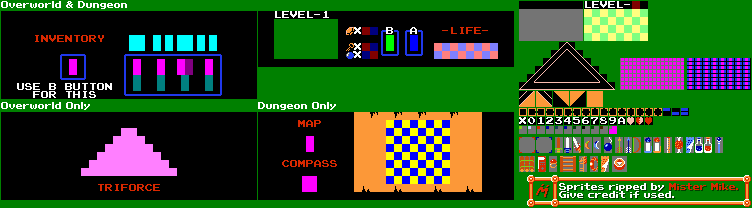
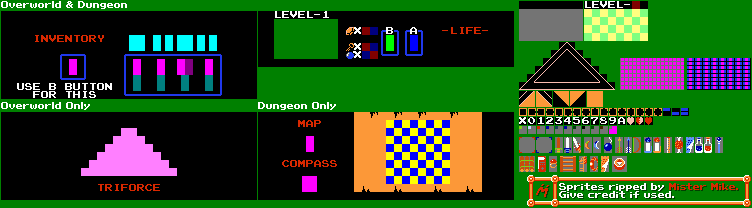
Implements functional healthbar UI

Changed region(s): [[0.5505, 0.2019, 0.6729, 0.2885]]

diff --git a/sprint0Real/UI/UI.cs b/sprint0Real/UI/UI.cs
@@ -2,6 +2,7 @@
 using Microsoft.Xna.Framework.Graphics;
 using sprint0Real;
 using sprint0Real.Interfaces;
+using System.Diagnostics;
 
 
 public class UI : IUI
@@ -12,6 +13,12 @@ public class UI : IUI
     private int Scale = Game1.RENDERSCALE;
     private int UIXCoord;
     private int UIYCoord;
+    private Rectangle[] RupeeDigits;
+    private Rectangle[] KeyDigits;
+    private Rectangle[] BombDigits;
+    private Rectangle[] HealthBar;
+
+    private int MaxHealth;
     public UI(Texture2D uITexture)
     {
         UIXCoord = Game1.SCREENMIDX - (128 * Scale);
@@ -20,8 +27,13 @@ public class UI : IUI
         SourceRectangle = new Rectangle(258, 11, 256, 56);
 
         UITexture = uITexture;
-        
 
+        RupeeDigits = UIHelper.CounterHelper(00);
+        KeyDigits = UIHelper.CounterHelper(00);
+        BombDigits = UIHelper.CounterHelper(00);
+
+        MaxHealth = 10;
+        HealthBar = UIHelper.HealthbarHelper(MaxHealth, MaxHealth);
 
     }
 
@@ -29,26 +41,37 @@ public class UI : IUI
     {
         spriteBatch.Draw(UITexture, DestinationRectangle, SourceRectangle, Color.White);
 
-        //Amount set to arbitrary number for testing purposes
-        Rectangle[] RupeeDigits = CounterHelper.Helper(05);
+        
         //Rupee Counter Ones Digit and Ten Digit
         spriteBatch.Draw(UITexture, new Rectangle(UIXCoord + 104 * Scale, UIYCoord + 16 * Scale, 8 * Scale, 8 * Scale), RupeeDigits[1], Color.White);
         spriteBatch.Draw(UITexture, new Rectangle(UIXCoord + 112 * Scale, UIYCoord + 16 * Scale, 8 * Scale, 8 * Scale), RupeeDigits[0], Color.White);
 
-        Rectangle[] KeyDigits =  CounterHelper.Helper(99);
+        
         //Rupee Counter Ones Digit and Ten Digit
         spriteBatch.Draw(UITexture, new Rectangle(UIXCoord + 104 * Scale, UIYCoord + 32 * Scale, 8 * Scale, 8 * Scale), KeyDigits[1], Color.White);
         spriteBatch.Draw(UITexture, new Rectangle(UIXCoord + 112 * Scale, UIYCoord + 32 * Scale, 8 * Scale, 8 * Scale), KeyDigits[0], Color.White);
 
-        Rectangle[] BombDigits = CounterHelper.Helper(03);
+        
         //Rupee Counter Ones Digit and Ten Digit
         spriteBatch.Draw(UITexture, new Rectangle(UIXCoord + 104 * Scale, UIYCoord + 40 * Scale, 8 * Scale, 8 * Scale), BombDigits[1], Color.White);
         spriteBatch.Draw(UITexture, new Rectangle(UIXCoord + 112 * Scale, UIYCoord + 40 * Scale, 8 * Scale, 8 * Scale), BombDigits[0], Color.White);
+
+        //Health Bar
+        for (int i = 0; i < MaxHealth / 2; i++)
+        {
+            spriteBatch.Draw(UITexture, new Rectangle(UIXCoord + 176 * Scale + (i * 8 * Scale), UIYCoord + 32 * Scale, 8 * Scale, 8 * Scale), HealthBar[i], Color.White);
+        }
     }
 
     public void Update(GameTime gametime, SpriteBatch spriteBatch)
     {
-    
+        //Amount set to arbitrary number for testing purposes
+        RupeeDigits = UIHelper.CounterHelper(05);
+        KeyDigits = UIHelper.CounterHelper(99);
+        BombDigits = UIHelper.CounterHelper(03);
+
+        //Health Set to Arbitrary number for testing purposes
+        HealthBar = UIHelper.HealthbarHelper(MaxHealth, 4);
     }
 }
 

diff --git a/sprint0Real/UI/UIHelper.cs b/sprint0Real/UI/UIHelper.cs
@@ -1,0 +1,73 @@
+using Microsoft.Xna.Framework;
+using Microsoft.Xna.Framework.Graphics;
+using sprint0Real;
+using sprint0Real.Interfaces;
+using System;
+using System.Diagnostics;
+
+public static class UIHelper
+{
+	//Function takes in a number from 0 to 99 and returns the source
+	//rectangles for each digit on the sprite sheet as an array.
+	//All inputs greater than 99 are treated as 99.
+	//Inputs must be positive.
+	public static Rectangle[] CounterHelper(int input)
+	{
+		
+		if (input > 99) input = 99;
+
+		//Get each digit
+		int OneDigit = input % 10;
+		int TenDigit = input / 10;
+
+		//Set each digit's source to the "0" sprite by default
+		Rectangle OneDigitRec = new Rectangle(528, 117, 8, 8);
+		Rectangle TenDigitRec = new Rectangle(528, 117, 8, 8);
+
+		OneDigitRec.Offset(9 * OneDigit, 0);
+        TenDigitRec.Offset(9 * TenDigit, 0);
+
+        Rectangle[] AnswerArray = {OneDigitRec, TenDigitRec};
+		return AnswerArray;
+	}
+
+	//Takes the current health and maximum health of Link as inputs
+	//And returns the source rectangles for the healthbar sprite as
+	//an array of length 8.
+
+	//Health is measured in half hearts (so 2 hearts = 4 health)
+	//Assumes maximum possible maximum health of 8 hearts.
+
+	//Max Health MUST ALWAYS BE an even Number!
+	public static Rectangle[] HealthbarHelper(int MaxHealth, int CurrentHealth)
+	{
+		if (MaxHealth % 2 != 0)
+		{
+			throw new ArgumentException("Max Health must be an even number!");
+        }
+
+		Rectangle[] ReturnArray = new Rectangle[MaxHealth / 2];
+		
+
+		
+
+		for (int i = 0; i < MaxHealth / 2; i++)
+		{
+			if (CurrentHealth >= 2)
+			{
+				ReturnArray[i] = new Rectangle(645, 117, 8, 8);
+			}
+			else if (CurrentHealth == 1) { 
+				ReturnArray[i] = new Rectangle(636, 117, 8, 8); 
+			}
+			else ReturnArray[i] = new Rectangle(627, 117, 8, 8);
+
+			CurrentHealth--;
+            CurrentHealth--;
+
+
+        }
+
+		return ReturnArray;
+	}
+}
